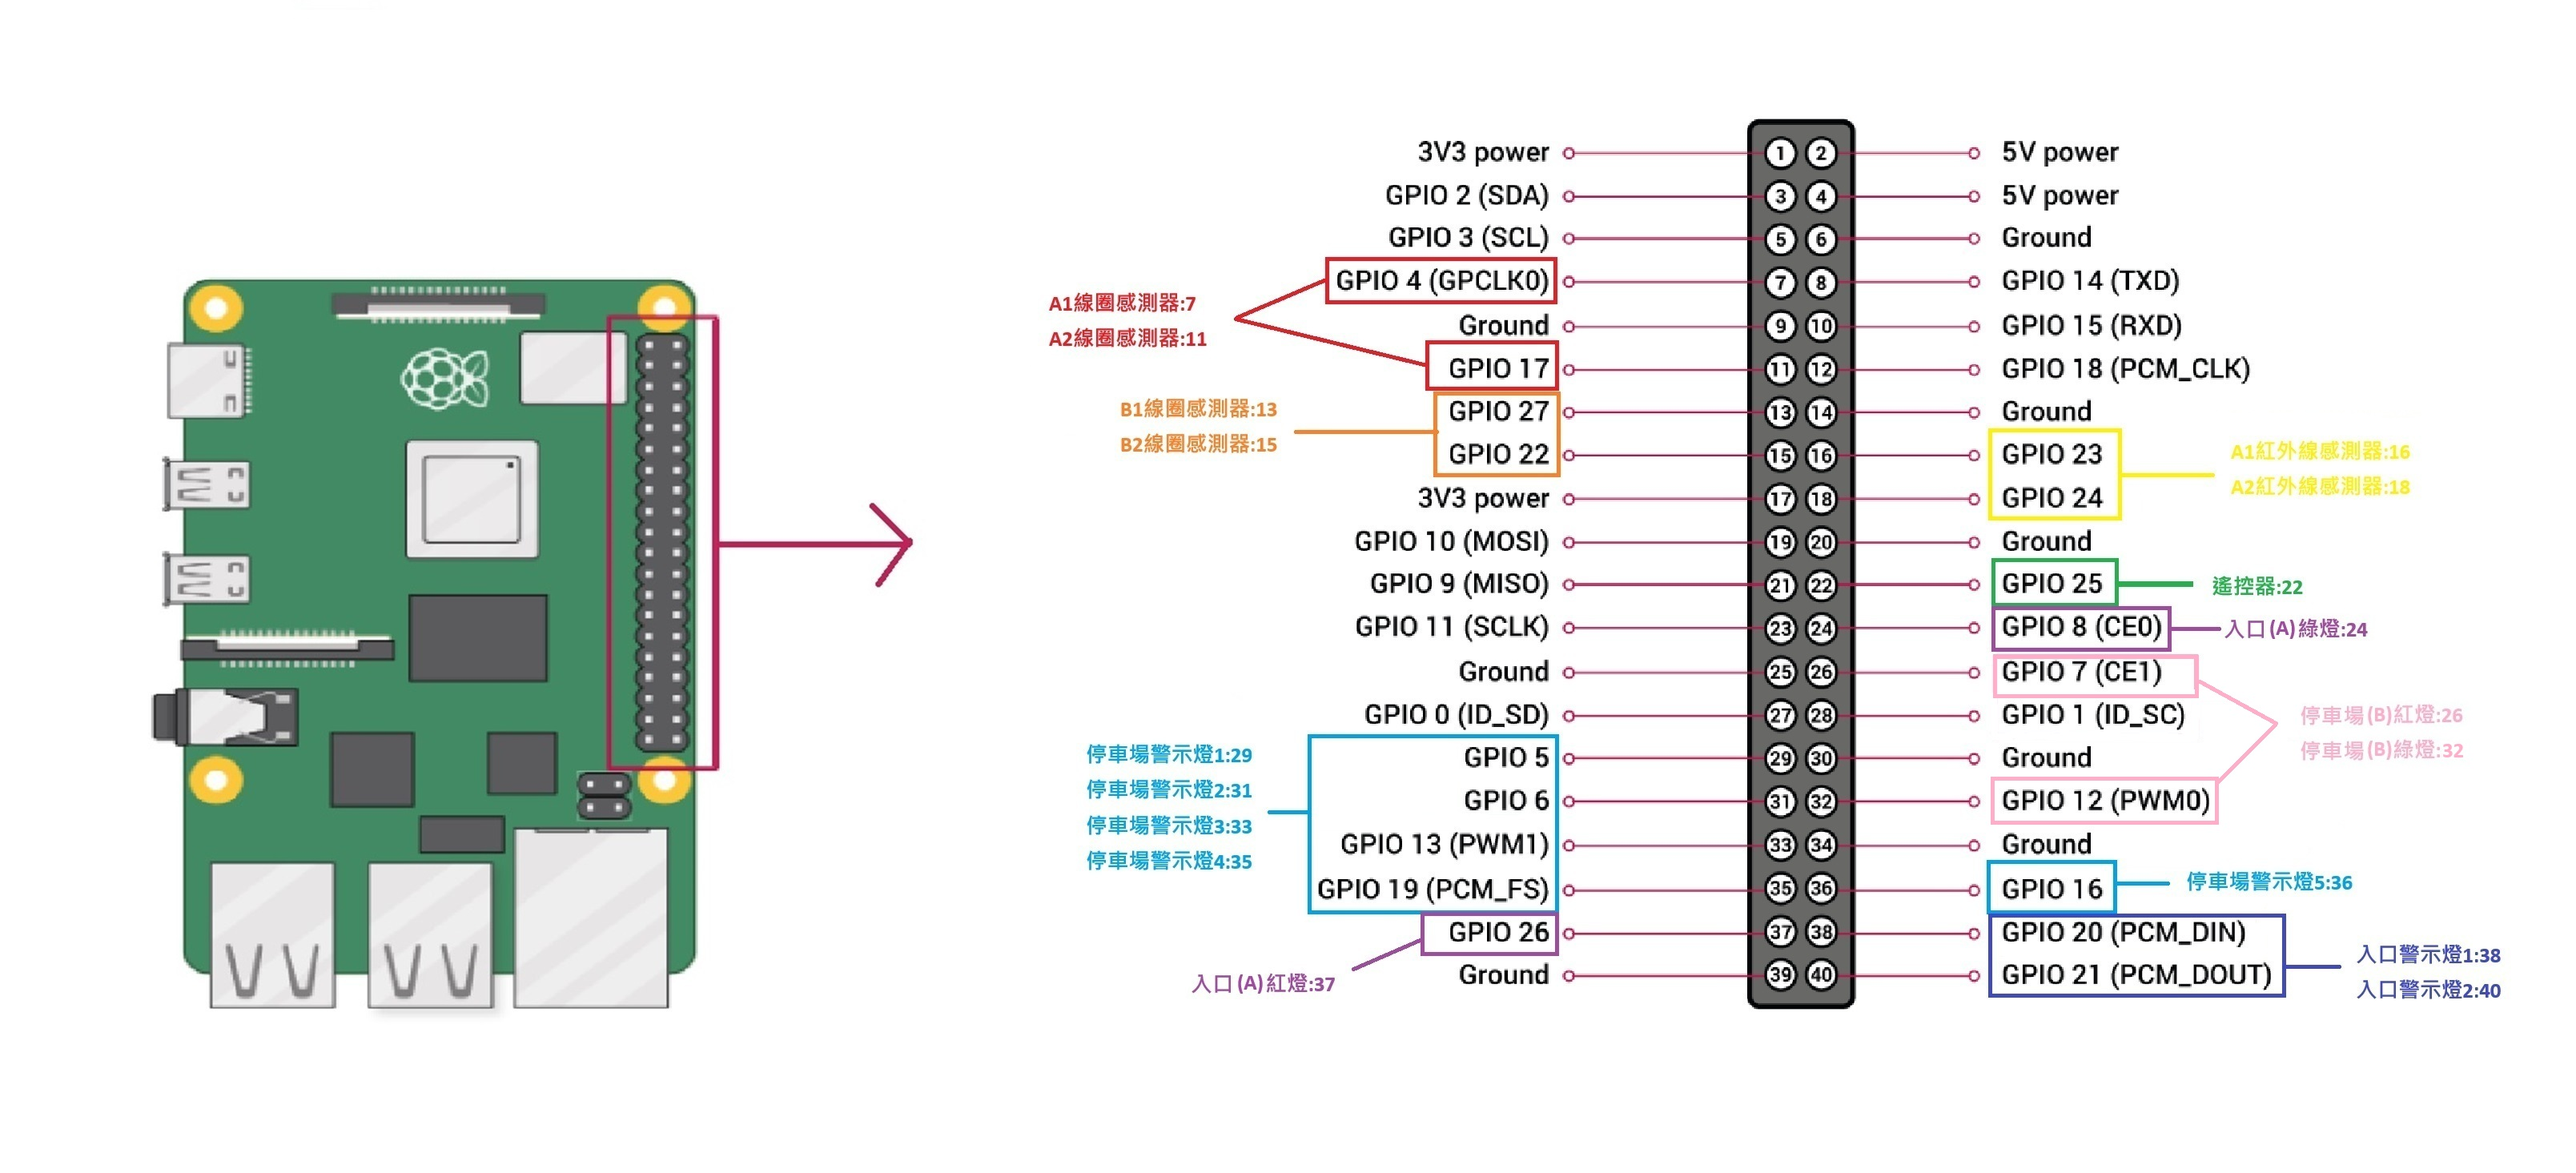
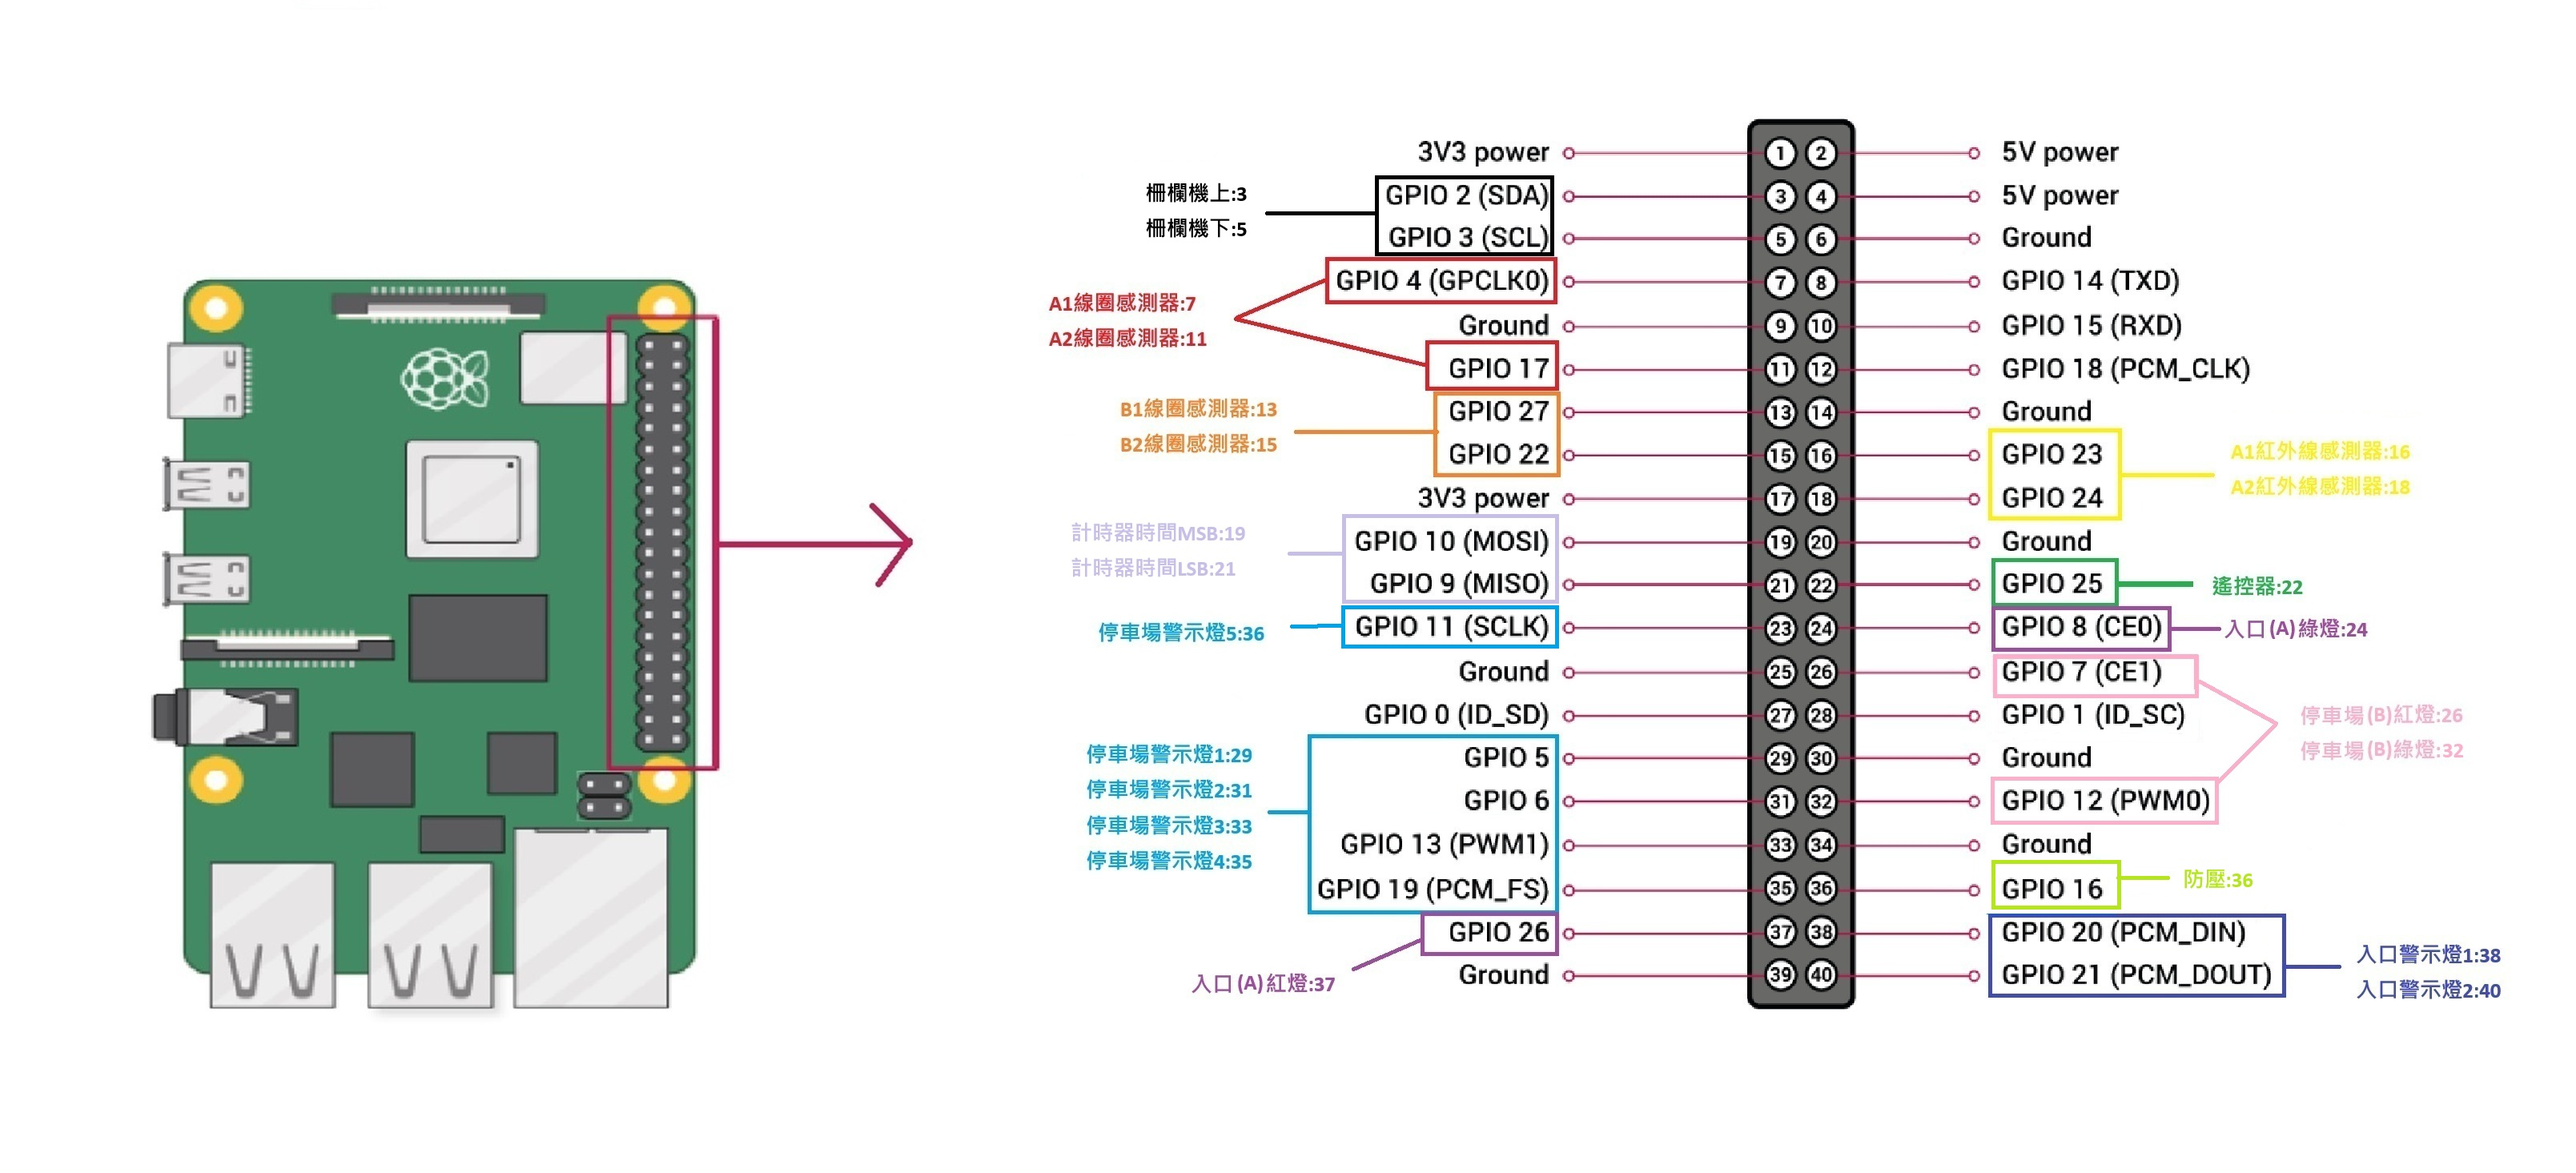
ADD FenceControl and TimerSetting
新增柵欄機控制
新增柵欄機防壓機制
新增可控制進出流程時間

diff --git a/複合感測器(時間控制)/main.py b/複合感測器(時間控制)/main.py
@@ -15,8 +15,17 @@ class EntryFSM:
     #進入流程處理
     def process(self,pin):
         self.isRunning=True
+        global FenceToken
 
         if(pin==remote):
+            self.WarningLightTimer.cancel()
+            self.WarningLightTimer=Timer(EntryTimer,self.FenceClose)
+            self.WarningLightTimer.start()
+
+            with FenceTokenLock:
+                FenceToken='EntryFSM'
+                fence_control('up')
+
             flash_control(Entry1_WarningLight,True)
             flash_control(Entry2_WarningLight,True)
             flash_control(Entry3_WarningLight,True)
@@ -24,11 +33,31 @@ class EntryFSM:
             flash_control(Entry5_WarningLight,True)
             traffic_control('B','Red')
             
-            self.WarningLightTimer.cancel()
-            self.WarningLightTimer=Timer(EntryTimer,self.reset)
-            self.WarningLightTimer.start()
-
         self.isRunning=False
+
+    #關閉柵欄機
+    def FenceClose(self):
+        global FenceToken
+
+        if(FenceToken=='EntryFSM'):
+            with FenceTokenLock:
+                FenceToken='EntryFSM_now'
+
+        start_time=time.time()
+        while(time.time()-start_time<FenceTimer):
+            if(FenceToken=='EntryFSM'):
+                return 
+            elif(GPIO.input(pressureSensor)==GPIO.HIGH):
+                fence_control('up')
+                start_time=time.time()
+            elif(GPIO.input(pressureSensor)==GPIO.LOW and FenceToken=='EntryFSM_now'):
+                fence_control('down')
+            time.sleep(0.01)
+
+        if(FenceToken=='EntryFSM_now'):  
+            fence_control('idle')
+        self.reset()
+
     #重置狀態
     def reset(self):
         flash_control(Entry1_WarningLight,False)
@@ -58,6 +87,7 @@ class ExitFSM:
     #退出流程處理
     def process(self,pin):
         self.isRunning=True
+        global FenceToken
 
         #coilA1,coilA2 senser
         if(pin==coil_sensorA1):
@@ -76,14 +106,18 @@ class ExitFSM:
                 self.coilATimer=Timer(stateTimer,self.reset,args=('coilA',))
                 self.coilATimer.start()
             elif(self.coilAState=='coilA1_Entry'):
+                self.coilATimer.cancel()
+                self.WarningLightTimer.cancel()
+                self.WarningLightTimer=Timer(ExitTimer,self.FenceClose)
+                self.WarningLightTimer.start()
                 self.coilAState='idle'
+                with FenceTokenLock:
+                    FenceToken='ExitFSM'
+                    fence_control('up')
                 flash_control(Exit1_WarningLight,True)
                 flash_control(Exit2_WarningLight,True)
                 traffic_control('A','Red')
-                self.coilATimer.cancel()
-                self.WarningLightTimer.cancel()
-                self.WarningLightTimer=Timer(ExitTimer,self.reset)
-                self.WarningLightTimer.start()
+                
 
         #coilB1,coilB2 senser
         elif(pin==coil_sensorB1):
@@ -102,14 +136,17 @@ class ExitFSM:
                 self.coilBTimer=Timer(stateTimer,self.reset,args=('coilB',))
                 self.coilBTimer.start()
             elif(self.coilBState=='coilB1_Entry'):
+                self.coilBTimer.cancel()
+                self.WarningLightTimer.cancel()
+                self.WarningLightTimer=Timer(ExitTimer,self.FenceClose)
+                self.WarningLightTimer.start()
                 self.coilBState='idle'
+                with FenceTokenLock:
+                    FenceToken='ExitFSM'
+                    fence_control('up')
                 flash_control(Exit1_WarningLight,True)
                 flash_control(Exit2_WarningLight,True)
                 traffic_control('A','Red')
-                self.coilBTimer.cancel()
-                self.WarningLightTimer.cancel()
-                self.WarningLightTimer=Timer(ExitTimer,self.reset)
-                self.WarningLightTimer.start()
 
         #infrared senser
         elif(pin==infrared_sensorA1):
@@ -128,16 +165,43 @@ class ExitFSM:
                 self.infraredTimer=Timer(stateTimer,self.reset,args=('infrared',))
                 self.infraredTimer.start()
             elif(self.infraredState=='infraredA1_Entry'):
+                self.infraredTimer.cancel()
+                self.WarningLightTimer.cancel()
+                self.WarningLightTimer=Timer(ExitTimer,self.FenceClose)
+                self.WarningLightTimer.start()
                 self.infraredState='idle'
+                with FenceTokenLock:
+                    FenceToken='ExitFSM'
+                    fence_control('up')
                 flash_control(Exit1_WarningLight,True)
                 flash_control(Exit2_WarningLight,True)
                 traffic_control('A','Red')
-                self.infraredTimer.cancel()
-                self.WarningLightTimer.cancel()
-                self.WarningLightTimer=Timer(ExitTimer,self.reset)
-                self.WarningLightTimer.start()
+                
 
         self.isRunning=False
+
+    #關閉柵欄機
+    def FenceClose(self):
+        global FenceToken
+
+        if(FenceToken=='ExitFSM'):
+            with FenceTokenLock:
+                FenceToken='ExitFSM_now'
+
+        start_time=time.time()
+        while(time.time()-start_time<FenceTimer):
+            if(FenceToken=='ExitFSM'):
+                return
+            elif(GPIO.input(pressureSensor)==GPIO.HIGH):
+                fence_control('up')
+                start_time=time.time()
+            elif(GPIO.input(pressureSensor)==GPIO.LOW and FenceToken=='ExitFSM_now'):
+                fence_control('down')
+            time.sleep(0.01)
+
+        if(FenceToken=='ExitFSM_now'):
+            fence_control('idle')
+        self.reset()
 
     #重置狀態
     def reset(self,part='ALL'):
@@ -161,11 +225,16 @@ infrared_sensorA1=16
 infrared_sensorA2=18
 remote=22
 
+pressureSensor=36
+
+TimerMSB=19
+TimerLSB=21
+
 Entry1_WarningLight=29
 Entry2_WarningLight=31
 Entry3_WarningLight=33
 Entry4_WarningLight=35
-Entry5_WarningLight=36
+Entry5_WarningLight=23
 Exit1_WarningLight=38
 Exit2_WarningLight=40
 A_RedLight=37
@@ -173,10 +242,16 @@ A_GreenLight=24
 B_RedLight=26
 B_GreenLight=32
 
+FenceUP=3
+FenceDOWN=5
+FenceToken=''
+FenceTokenLock=threading.Lock()
+
 #計時器秒數設定
-EntryTimer=30
-ExitTimer=30
+EntryTimer=0 #由程式啟動時設定
+ExitTimer=0 #由程式啟動時設定
 stateTimer=5
+FenceTimer=5
 
 #進出流程
 Entry=EntryFSM()
@@ -186,15 +261,7 @@ Exit=ExitFSM()
 def setup():
     GPIO.setmode(GPIO.BOARD)
     
-    #sensor
-    GPIO.setup(coil_sensorA1,GPIO.IN)
-    GPIO.setup(coil_sensorA2,GPIO.IN)
-    GPIO.setup(coil_sensorB1,GPIO.IN)
-    GPIO.setup(coil_sensorB2,GPIO.IN)
-    GPIO.setup(infrared_sensorA1,GPIO.IN)
-    GPIO.setup(infrared_sensorA2,GPIO.IN)
-    GPIO.setup(remote,GPIO.IN)
-    #設定下拉電阻
+    #設定sensor與下拉電阻
     GPIO.setup(coil_sensorA1, GPIO.IN, pull_up_down=GPIO.PUD_DOWN)
     GPIO.setup(coil_sensorA2, GPIO.IN, pull_up_down=GPIO.PUD_DOWN)
     GPIO.setup(coil_sensorB1, GPIO.IN, pull_up_down=GPIO.PUD_DOWN)
@@ -202,6 +269,10 @@ def setup():
     GPIO.setup(infrared_sensorA1, GPIO.IN, pull_up_down=GPIO.PUD_DOWN)
     GPIO.setup(infrared_sensorA2, GPIO.IN, pull_up_down=GPIO.PUD_DOWN)
     GPIO.setup(remote, GPIO.IN, pull_up_down=GPIO.PUD_DOWN)
+    GPIO.setup(pressureSensor,GPIO.IN,pull_up_down=GPIO.PUD_DOWN)
+    #計時器秒數設定腳位與下拉電阻
+    GPIO.setup(TimerMSB,GPIO.IN,pull_up_down=GPIO.PUD_DOWN)
+    GPIO.setup(TimerLSB,GPIO.IN,pull_up_down=GPIO.PUD_DOWN)
     #設定事件觸發
     GPIO.add_event_detect(coil_sensorA1,GPIO.RISING,callback=SensorCallBack ,bouncetime=200)
     GPIO.add_event_detect(coil_sensorA2,GPIO.RISING,callback=SensorCallBack ,bouncetime=200)
@@ -234,8 +305,14 @@ def setup():
     GPIO.output(A_GreenLight,GPIO.HIGH)
     GPIO.output(B_RedLight,GPIO.LOW)
     GPIO.output(B_GreenLight,GPIO.HIGH)
-
-
+    #柵欄機設定
+    GPIO.setup(FenceUP,GPIO.OUT)
+    GPIO.setup(FenceDOWN,GPIO.OUT)
+    GPIO.output(FenceUP,GPIO.LOW)
+    GPIO.output(FenceDOWN,GPIO.LOW)
+    #計時器秒數設定 
+    timerSetting()
+    
 #按鈕中斷執行程序
 def SensorCallBack(pin):
     #建立進入流程執行緒
@@ -275,6 +352,32 @@ def traffic_control(traffic,light):
     elif(light=='Green'):
         GPIO.output(red,GPIO.LOW)
         GPIO.output(green,GPIO.HIGH)
+
+#=====柵欄機控制=====
+def fence_control(state=''):
+    if(state=='up'):
+        GPIO.output(FenceDOWN,GPIO.LOW)
+        GPIO.output(FenceUP,GPIO.HIGH)
+    elif(state=='down'):
+        GPIO.output(FenceUP,GPIO.LOW)
+        GPIO.output(FenceDOWN,GPIO.HIGH)
+    elif(state=='idle'):
+        GPIO.output(FenceUP,GPIO.LOW)
+        GPIO.output(FenceDOWN,GPIO.LOW)
+
+#柵欄機時間設定
+def timerSetting():
+    global ExitTimer
+    global EntryTimer
+    second=10
+
+    if(GPIO.input(TimerMSB)==GPIO.HIGH):
+        second+=20
+    if(GPIO.input(TimerLSB)==GPIO.HIGH):
+        second+=10
+
+    EntryTimer=second
+    ExitTimer=second
 
 if __name__ == '__main__':
     setup()
